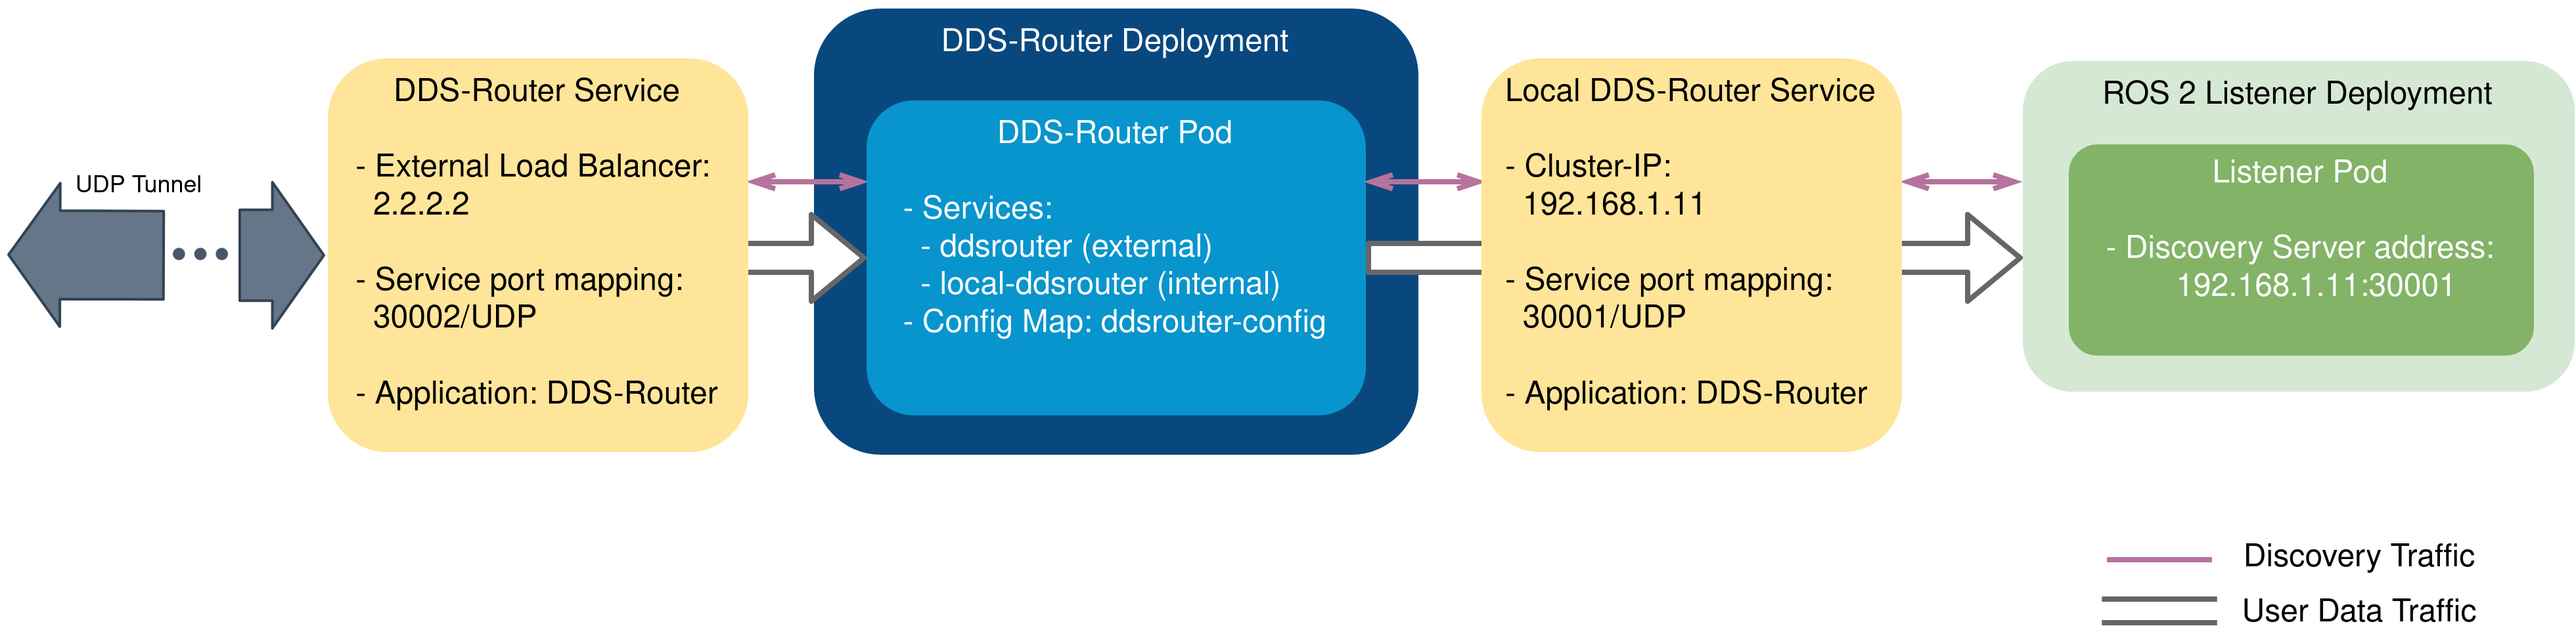
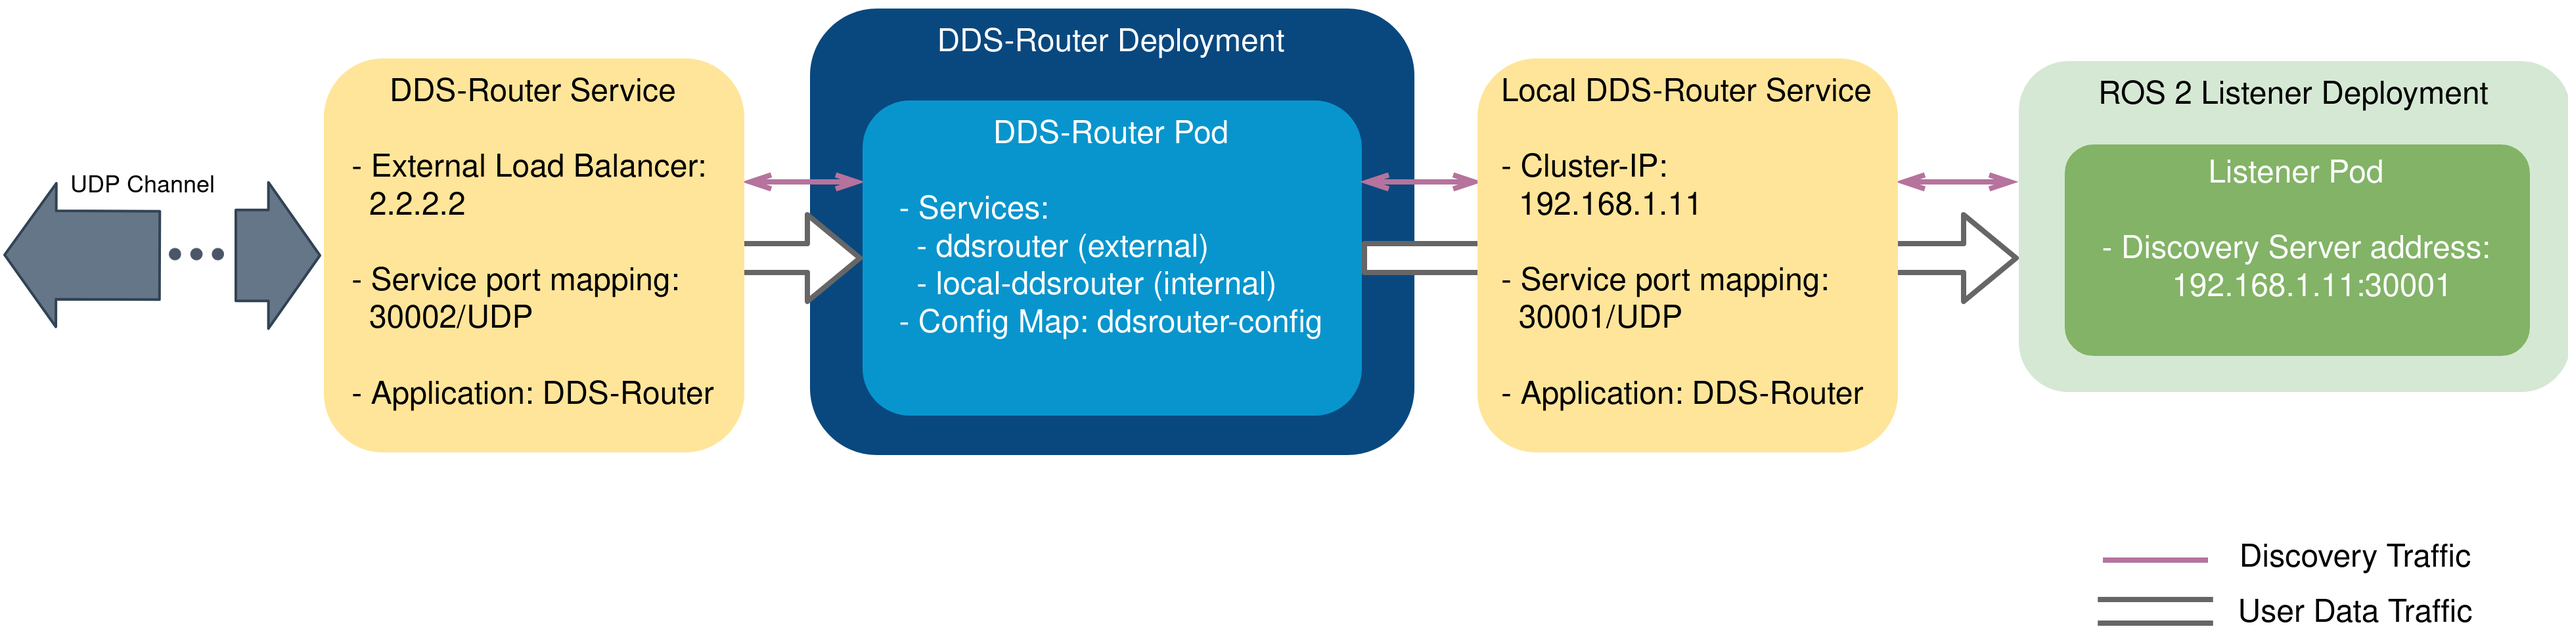
Apply more suggestions

diff --git a/docs/rst/use_cases/vulcanexus_cloud.rst b/docs/rst/use_cases/vulcanexus_cloud.rst
@@ -27,9 +27,10 @@ a |ddsrouter| instance at each side of the communication.
 
 Local setup
 ===========
-The local instance of |ddsrouter| (local router) only requires to have a :ref:`Simple Participant <user_manual_participants_simple>`,
-and a :ref:`WAN Participant <user_manual_participants_wan>` that will play the client role in the discovery process of
-remote participants (see `Discovery Server <https://fast-dds.docs.eprosima.com/en/latest/fastdds/discovery/discovery_server.html>`_).
+The local instance of |ddsrouter| (local router) only requires to have a
+:ref:`Simple Participant <user_manual_participants_simple>`, and a :ref:`WAN Participant <user_manual_participants_wan>`
+that will play the client role in the discovery process of remote participants
+(see :term:`Discovery Server discovery mechanism <Discovery Server>`).
 
 After having acknowledged each other’s existence through `Simple DDS discovery mechanism <https://fast-dds.docs.eprosima.com/en/latest/fastdds/discovery/simple.html>`_
 (multicast communication), the local participant will start receiving messages published by the ROS 2 talker node, and
@@ -52,7 +53,8 @@ Note that the simple participant will be receiving messages sent in DDS domain `
 of UDP as transport protocol, a listening address with the LAN public IP address needs to be specified for the local WAN
 participant, even when behaving as client in the participant discovery process. Make sure that the given port is
 reachable from outside this local network by properly configuring port forwarding in your Internet router device.
-The connection address points to the remote WAN participant deployed in the |k8s| cluster.
+The connection address points to the remote WAN participant deployed in the |k8s| cluster. For further details on how to
+configure WAN communication, please have a look at :ref:`WAN Configuration <user_manual_wan_configuration>`.
 
 To launch the local router from within a Vulcanexus Docker image, execute the following:
 
@@ -82,10 +84,11 @@ Kubernetes setup
 ================
 Two different deployments will be used for this example, each in a different |k8s| pod. The |ddsrouter| cloud instance
 (cloud router) consists of two participants; a WAN participant that receives the messages coming from our LAN through
-the aforementioned UDP tunnel, and a :ref:`Local Discovery Server <user_manual_participants_local_discovery_server>`
-(local DS) that propagates them to a ROS 2 listener node hosted in a different |k8s| pod. The choice of a Local
-Discovery Server instead of a Simple Participant to communicate with the listener has to do with the difficulty of
-enabling multicast routing in cloud environments.
+the aforementioned UDP communication channel, and a
+:ref:`Local Discovery Server <user_manual_participants_local_discovery_server>` (local DS) that propagates them to a
+ROS 2 listener node hosted in a different |k8s| pod. The choice of a Local Discovery Server instead of a Simple
+Participant to communicate with the listener has to do with the difficulty of enabling multicast routing in cloud
+environments.
 
 The described scheme is represented in the following figure:
 

diff --git a/docs/rst/formalia/titlepage.rst b/docs/rst/formalia/titlepage.rst
@@ -68,8 +68,7 @@ Structure of the documentation
 This documentation is organized into the sections below.
 
 * :ref:`Installation Manual <installation_manual_linux>`
-* Getting Started
-* :ref:`User Manual <user_manual_participant>`
+* :ref:`User Manual <getting_started_tutorial>`
 * :ref:`Examples <examples_echo_example>`
 * :ref:`Use cases <vulcanexus_cloud>`
 * :ref:`Developer Manual <developer_manual_installation_sources_linux>`
